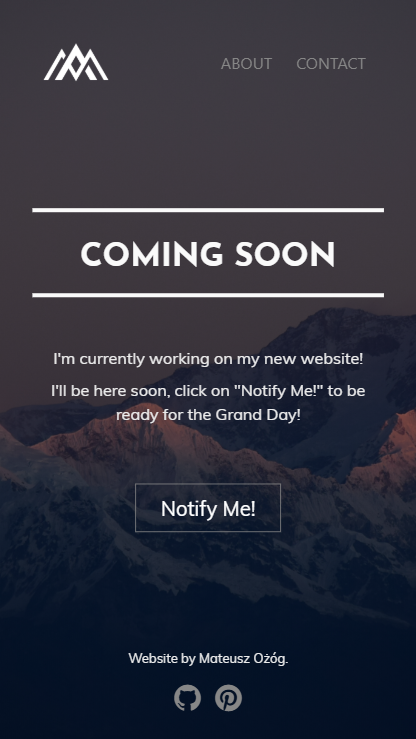
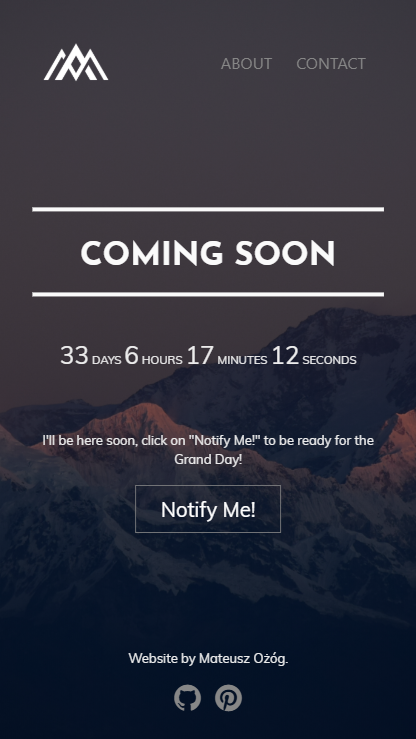
Adding working timer!

Changed region(s): [[0.0938, 0.4668, 0.9062, 0.7158], [0.0938, 0.2801, 0.9062, 0.4046]]

diff --git a/index.html b/index.html
@@ -12,8 +12,6 @@
         <link href='https://cdn.jsdelivr.net/npm/boxicons@1.8.1/css/boxicons.min.css' rel='stylesheet'>
         <!-- Favicon -->
         <link rel="shortcut icon" href="assets/img/logo_black.png">
-        <!-- JavaScript -->
-        <script type="text/javascript" src="https://stackpath.bootstrapcdn.com/bootstrap/4.1.3/js/bootstrap.min.js"></script>
     </head>
     <body>
         <div id="app">
@@ -26,8 +24,8 @@
             </nav>
             <div class="text">
                 <h1>COMING SOON</h1>
-                <p>I'm currently working on my new website!</p>
-                <p class="pb-5">I'll be here soon, click on "Notify Me!" to be ready for the Grand Day!</p>
+                <p id="timer" class="pb-5"><span id="days"></span> DAYS <span id="hours"></span> HOURS <span id="minutes"></span> MINUTES <span id="seconds"></span> SECONDS</p>
+                <p class="m-0 small pb-3">I'll be here soon, click on "Notify Me!" to be ready for the Grand Day!</p>
                 <a href="#" class="btn btn-lg">Notify Me!</a>
             </div>
             <div class="copyright">
@@ -43,4 +41,8 @@
             </div>
         </div>
     </body>
+    <!-- JavaScript -->
+    <script type="text/javascript" src="https://stackpath.bootstrapcdn.com/bootstrap/4.1.3/js/bootstrap.bundle.min.js"></script>
+    <script type="text/javascript" src="https://code.jquery.com/jquery-3.3.1.min.js"></script>
+    <script type="text/javascript" src="assets/js/app.js"></script>
 </html>

diff --git a/assets/js/app.js b/assets/js/app.js
@@ -1,0 +1,27 @@
+class Timera{
+    constructor(date, elementID){
+        this.element = $('#'+elementID);
+        this.date = date;
+    }
+    calculateSecounds(){
+        var now = new Date();
+        var calculated = this.date - now;
+        return Math.floor(calculated/1000);
+    }
+    show(){
+        var calculated = this.calculateSecounds();
+        window.a = $($(this.element).find('#seconds')).html(calculated%60);
+        calculated = Math.floor(calculated/60);
+        window.a = $($(this.element).find('#minutes')).html(calculated%60);
+        calculated = Math.floor(calculated/60);
+        window.a = $($(this.element).find('#hours')).html(calculated%24);
+        calculated = Math.floor(calculated/24);
+        window.a = $($(this.element).find('#days')).html(calculated);
+    }
+}
+$(document).ready(function() {
+    var date = new Date("2019.01.01");
+    window.timer = new Timera(date, 'timer');
+    timer.show();
+    setInterval('timer.show()', 1000);
+});

diff --git a/assets/css/app.scss b/assets/css/app.scss
@@ -60,7 +60,7 @@ a{
             font-size: 5.5rem;
             color: #fafafa;
             padding: 2.2rem 0 1rem 0;
-            margin-bottom: 3rem;
+            margin-bottom: 2.5rem;
             border-top: 4px solid #fafafa;
             border-bottom: 4px solid #fafafa;
             @media (max-width: 575.98px) {
@@ -71,6 +71,15 @@ a{
         p{
             color: #ececec;
             margin: .5rem;
+        }
+        #timer{
+            font-size: .7rem;
+            span{
+                font-size: 3.4rem;
+                @media (max-width: 575.98px) {
+                    font-size: 1.5rem;
+                }
+            }
         }
         .btn{
             border-radius: 0;

diff --git a/assets/css/app.css b/assets/css/app.css
@@ -85,7 +85,7 @@ a:hover {
   font-size: 5.5rem;
   color: #fafafa;
   padding: 2.2rem 0 1rem 0;
-  margin-bottom: 3rem;
+  margin-bottom: 2.5rem;
   border-top: 4px solid #fafafa;
   border-bottom: 4px solid #fafafa;
 }
@@ -100,6 +100,20 @@ a:hover {
 #app .text p {
   color: #ececec;
   margin: .5rem;
+}
+
+#app .text #timer {
+  font-size: .7rem;
+}
+
+#app .text #timer span {
+  font-size: 3.4rem;
+}
+
+@media (max-width: 575.98px) {
+  #app .text #timer span {
+    font-size: 1.5rem;
+  }
 }
 
 #app .text .btn {

diff --git a/README.md b/README.md
@@ -1,5 +1,5 @@
 ![preview_pc](https://raw.githubusercontent.com/Azurixa/ComingSoon_Template/master/preview/preview_pc.png)
-# Coming Soon website Template
+# Coming Soon - website Template
 >by Mateusz Ożóg
 
 Preview of this template is in **preview/preview_RWD.png** file!
